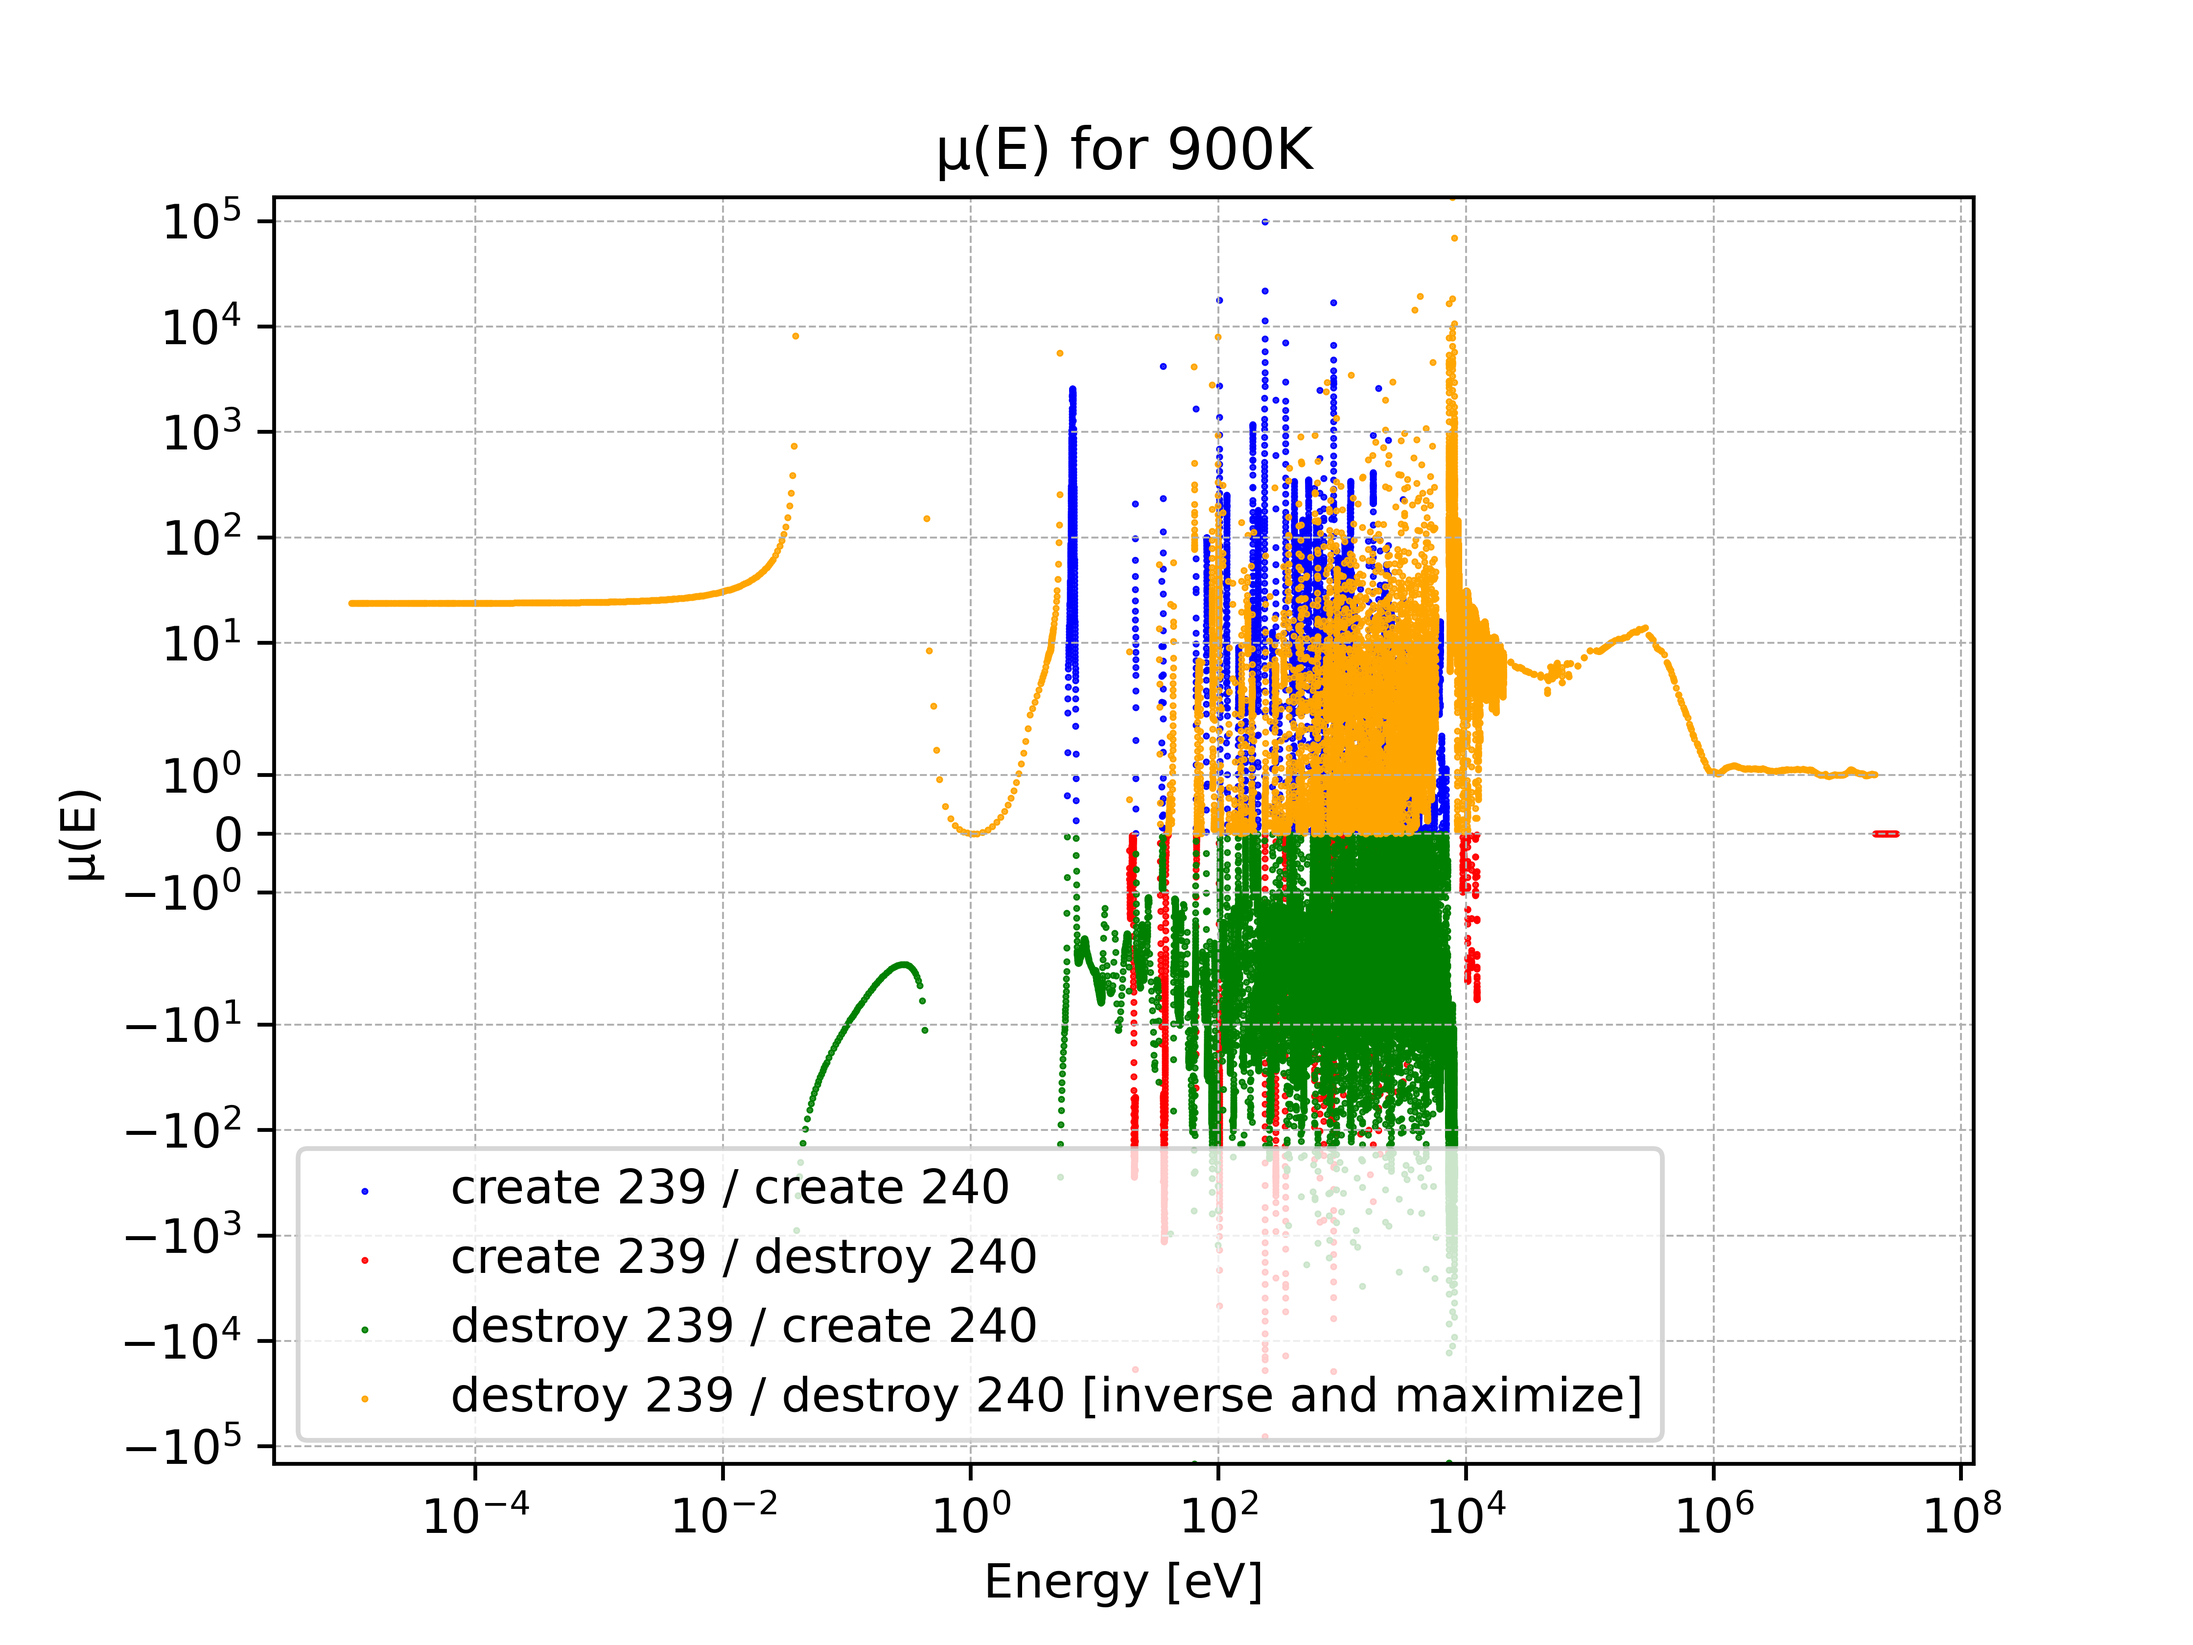
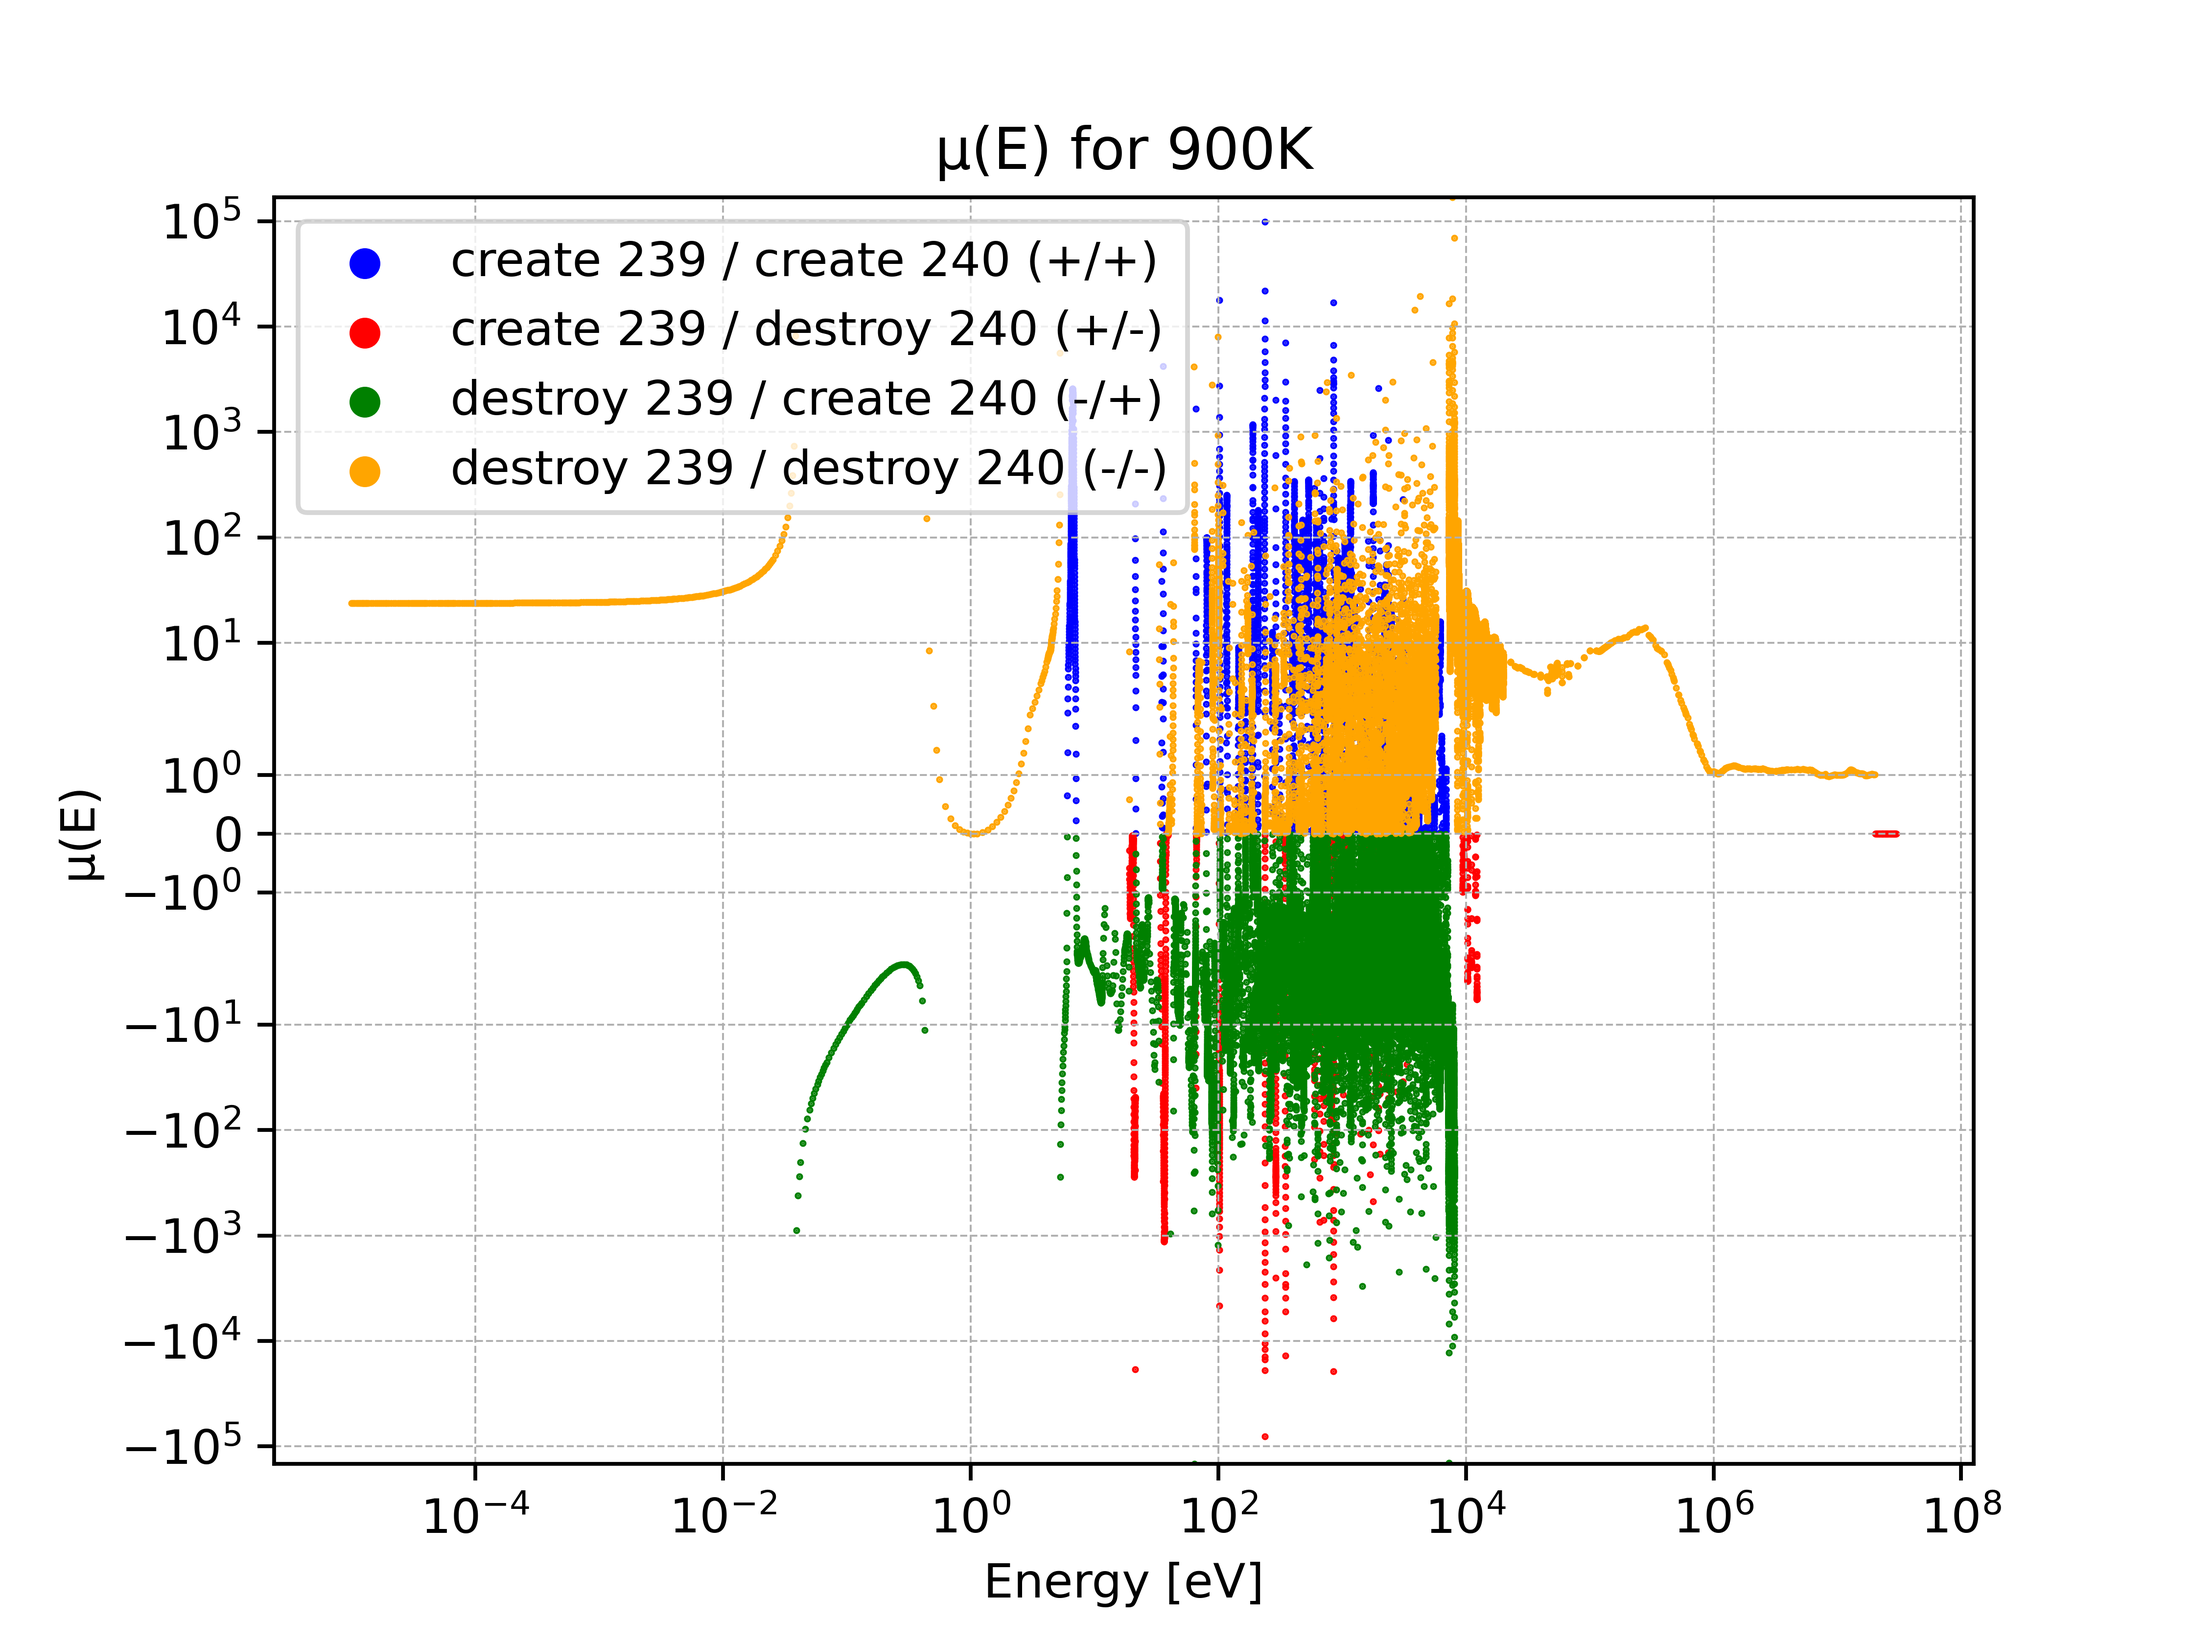
pu breeding metric plots changes

Changed region(s): [[0.1875, 0.6875, 0.75, 0.875], [0.125, 0.125, 0.5312, 0.3125], [0.125, 0.6875, 0.1562, 0.7188]]

diff --git a/basic/Pu_breeding_metric/main.py b/basic/Pu_breeding_metric/main.py
@@ -64,11 +64,15 @@ for temperature in temperatures:
     plt.clf()
 
     #PLOT MU
-    plt.scatter(energies[c_1], mu[c_1], s=0.2, c='blue', label='create 239 / create 240')
-    plt.scatter(energies[c_2], mu[c_2], s=0.2, c='red', label='create 239 / destroy 240')
-    plt.scatter(energies[c_3], mu[c_3], s=0.2, c='green', label='destroy 239 / create 240')
-    plt.scatter(energies[c_4], mu[c_4], s=0.2, c='orange', label='destroy 239 / destroy 240 [inverse and maximize]')
-    plt.legend()
+    plt.scatter(energies[c_1], mu[c_1], s=0.2, c='blue', label='create 239 / create 240 (+/+)')
+    plt.scatter(energies[c_2], mu[c_2], s=0.2, c='red', label='create 239 / destroy 240 (+/-)')
+    plt.scatter(energies[c_3], mu[c_3], s=0.2, c='green', label='destroy 239 / create 240 (-/+)')
+    plt.scatter(energies[c_4], mu[c_4], s=0.2, c='orange', label='destroy 239 / destroy 240 (-/-)')
+    lgnd = plt.legend()
+    lgnd.legendHandles[0]._sizes = [30]
+    lgnd.legendHandles[1]._sizes = [30]
+    lgnd.legendHandles[2]._sizes = [30]
+    lgnd.legendHandles[3]._sizes = [30]
     plt.xscale('log')
     plt.yscale('symlog')
     plt.grid(b=True, which='both', linewidth=0.4, ls='--')
